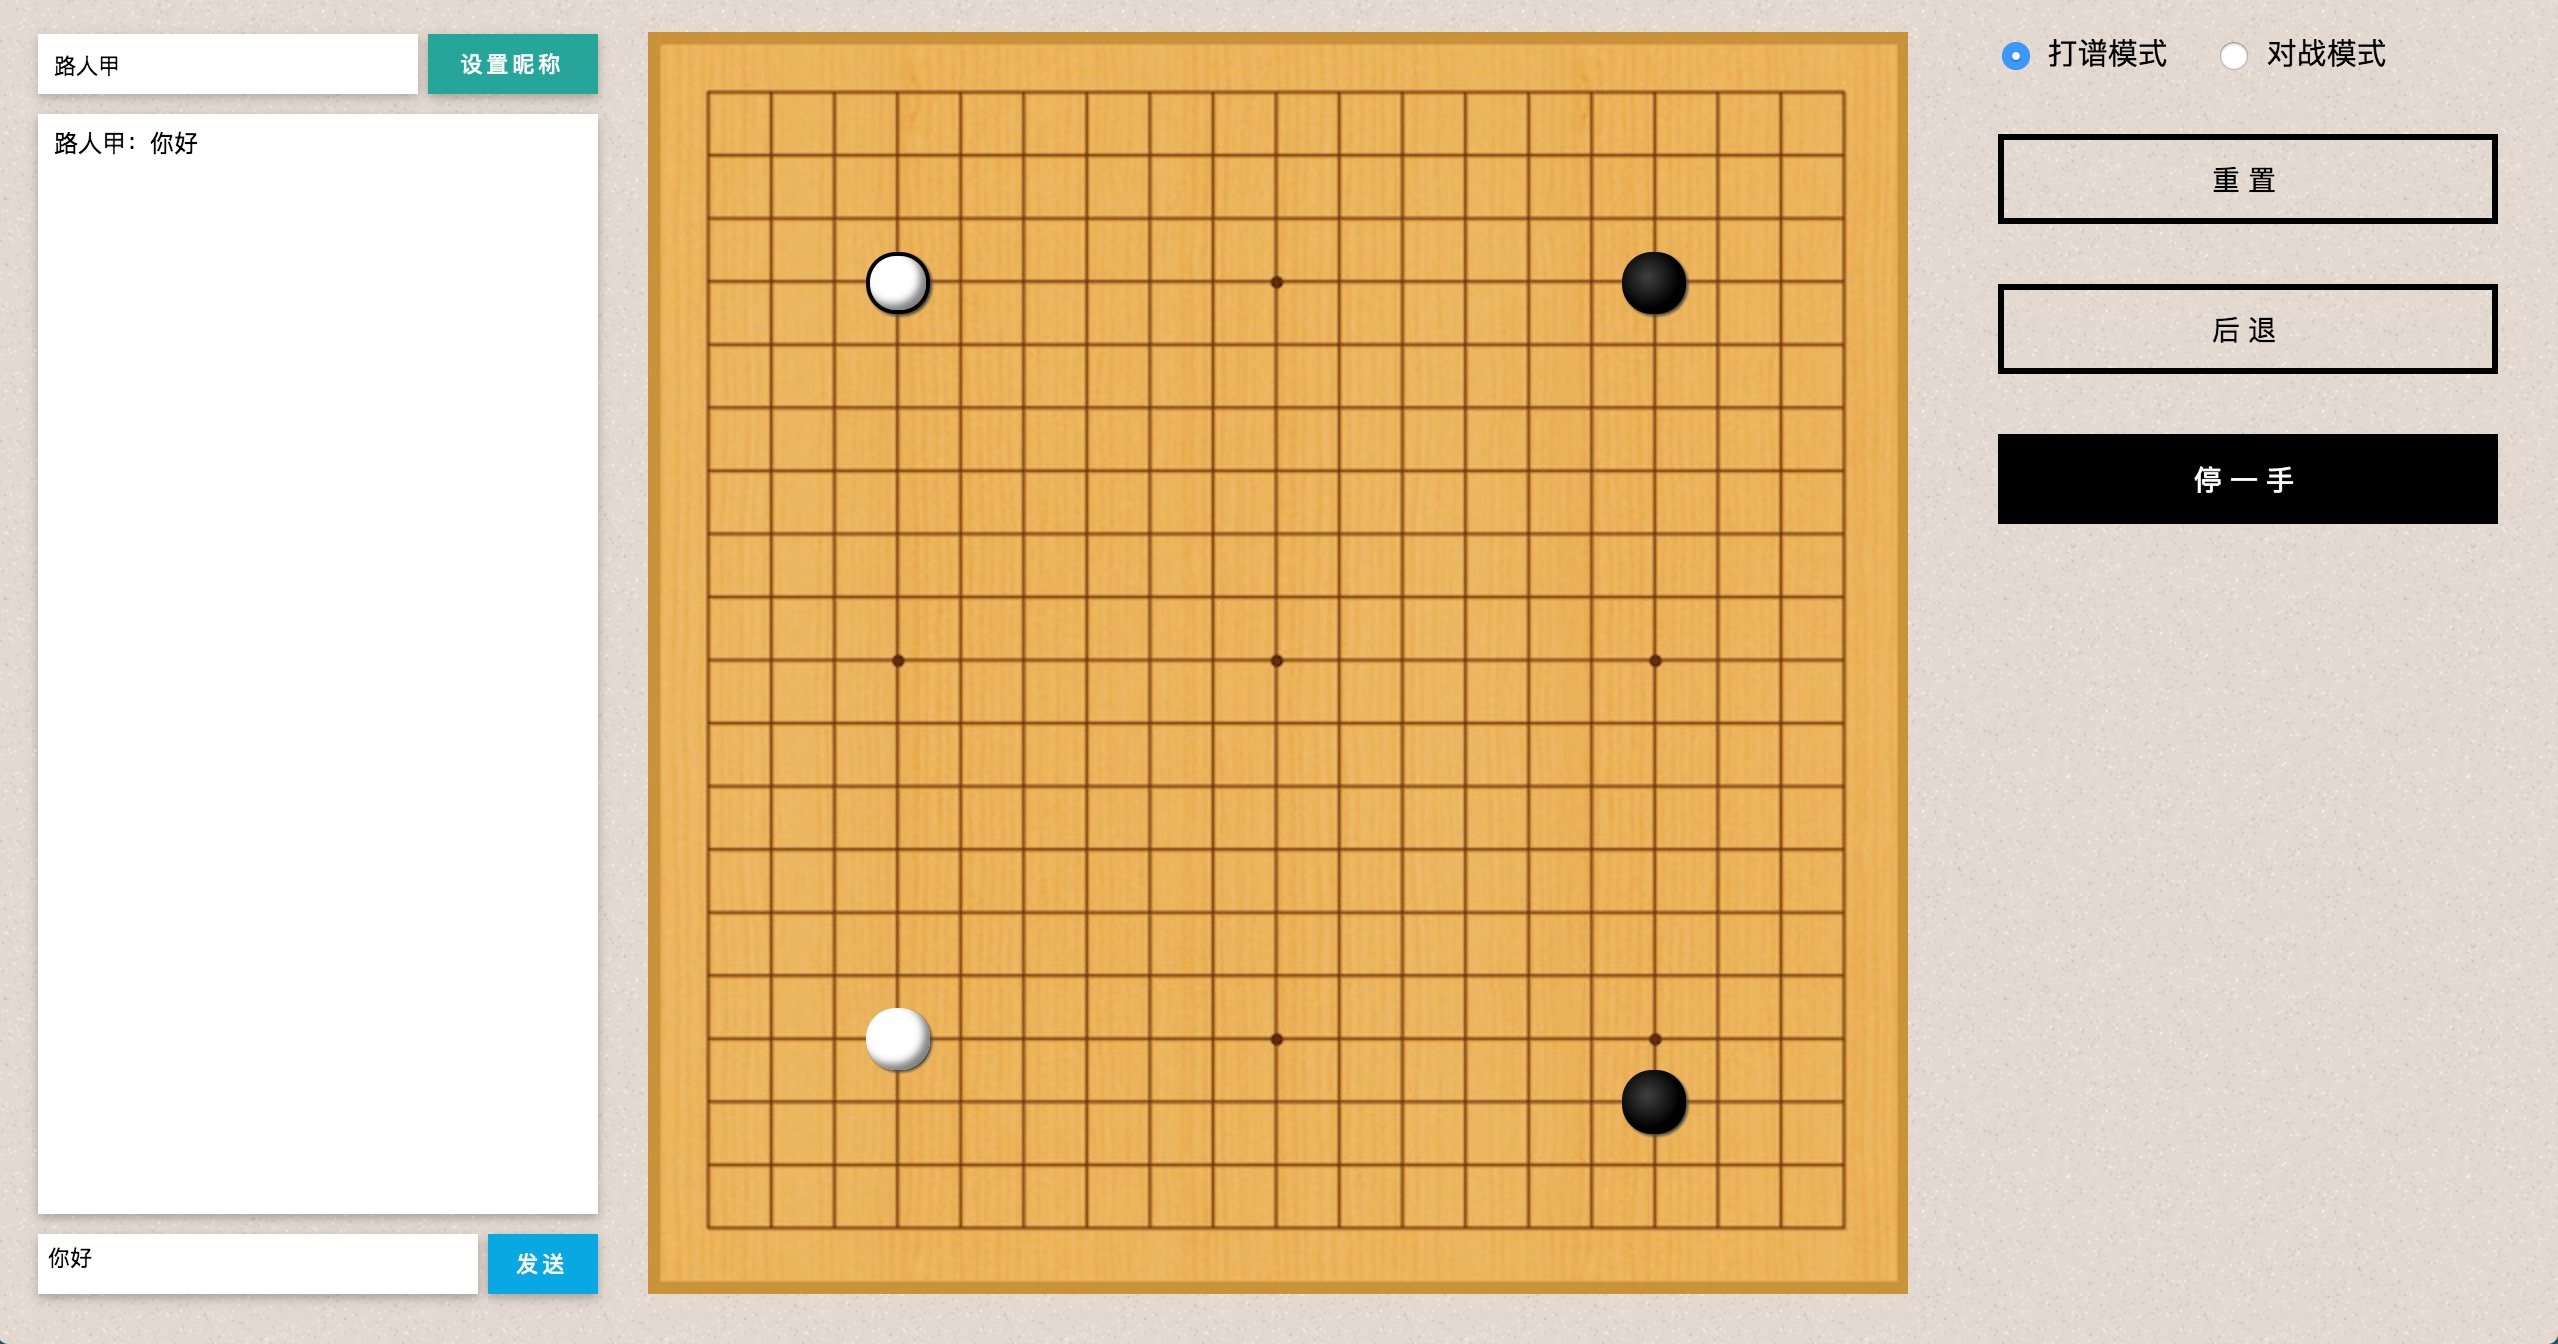
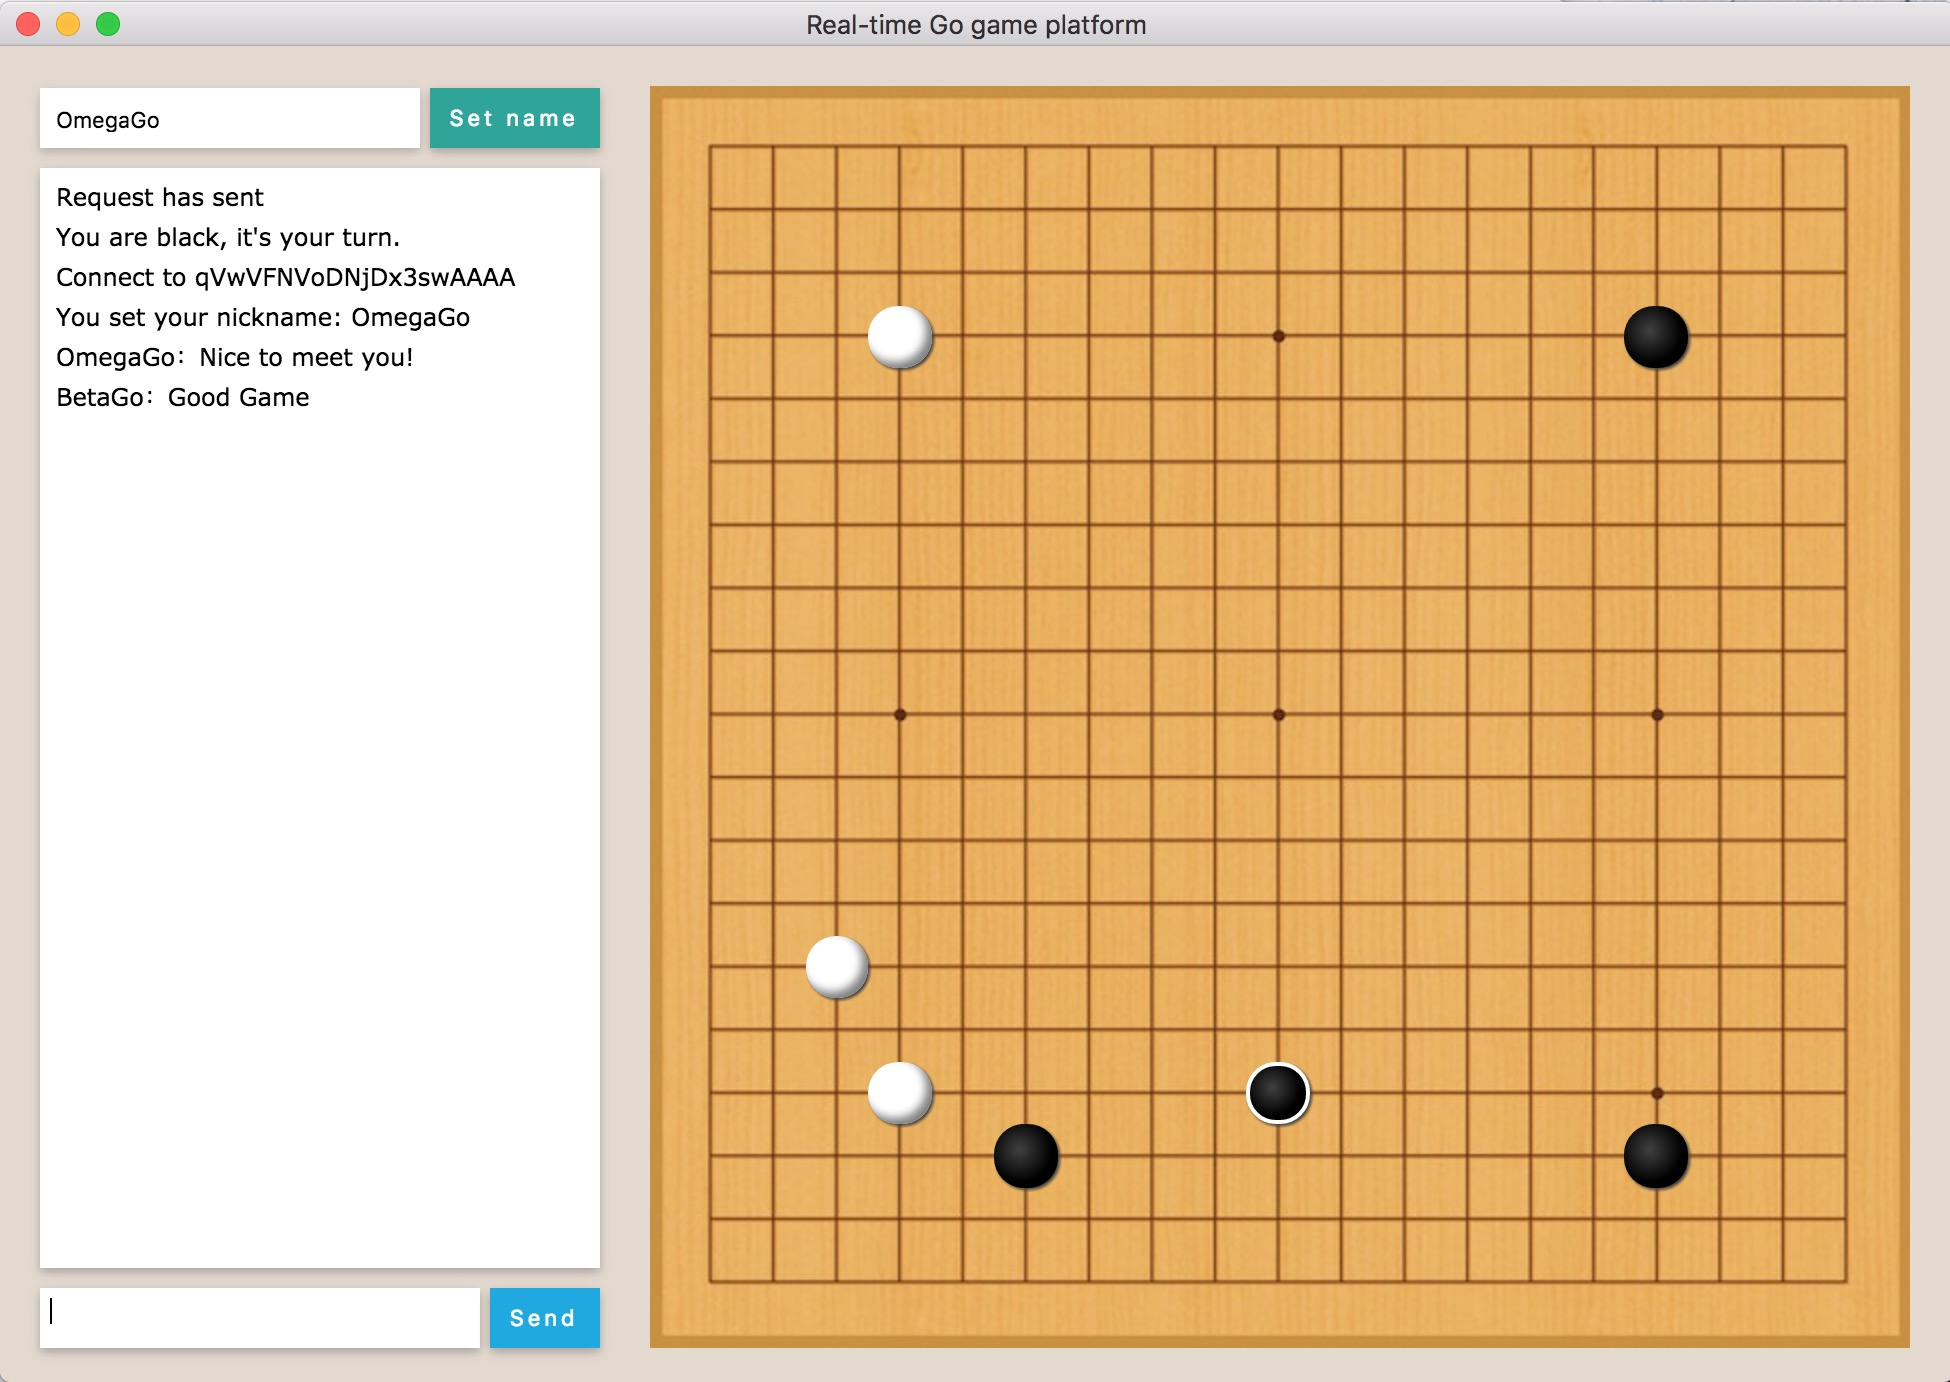
English

diff --git a/public/javascript.js b/public/javascript.js
@@ -130,7 +130,7 @@ window.onload = function(){
 		});
 		socket.on('chat', function(data){
             if (!data.name) {
-                data.name = "匿名";
+                data.name = "anonym";
             }
 			addInfo(data.name + "：" + data.info);
 		});
@@ -161,10 +161,10 @@ window.onload = function(){
                 socket.on('connectPlayer', function(data){
                     isConnect = true;
                     if(data.color != "black"){
-                        addInfo("您是黑棋，请落子");
+                        addInfo("You are black, it's your turn.");
                         action = true;
                     }else{
-                        addInfo("对方黑棋，轮到对方落子");
+                        addInfo("Your opponent is black, please wait.");
                     }
                     callback && callback(data);
                 });
@@ -481,7 +481,7 @@ window.onload = function(){
             }
         }
         currentFlag = 1;
-        addInfo("请求已发出，请等待");
+        addInfo("Request has sent");
         var name = document.getElementById("playerName");
         network.request(name.innerHTML);
     });
@@ -523,7 +523,7 @@ window.onload = function(){
     playerRename.addEventListener("click", function () {
        var name = document.getElementById("playerName");
         network.rename(name.value);
-        addInfo("您已更名为: "+name.value);
+        addInfo("You set your nickname: "+name.value);
     });
 
 	//联机对战事件监听
@@ -532,7 +532,7 @@ window.onload = function(){
 	});
 	network.onCreate();
 	network.onConnect(function(data){
-		addInfo("已经连接上对手" + data.name);
+		addInfo("Connect to " + data.name);
 	});
 
     // 发布信息

diff --git a/index.html b/index.html
@@ -2,20 +2,20 @@
 <html>
 <head>
     <meta charset="utf8">
-    <title>围棋对弈平台</title>
+    <title>Real-time Go game platform</title>
     <link href="public/style.css" rel="stylesheet" type="text/css" />
     <script src="public/javascript.js" type="text/javascript"></script>
 </head>
 <body>
 <div class="control">
     <div>
-        <input id="playerName" value="路人甲" maxlength="13">
-        <button id="playerRename">设置昵称</button>
+        <input id="playerName" value="anonym" maxlength="13">
+        <button id="playerRename">Set name</button>
     </div>
     <div id="log"></div>
     <div>
         <textarea id="chatInput"></textarea>
-        <button id="chatBtn">发送</button>
+        <button id="chatBtn">Send</button>
     </div>
 </div>
 
@@ -26,7 +26,7 @@
 <div id="function">
     <label for="method1"><input type="radio" value="1" id="method1" name="method" checked="true"/>打谱模式</label>
     <label for="method2"><input type="radio" value="2" id="method2" name="method"/>对战模式</label>
-    <button id="requestEnemy">请求在线对战队友</button>
+    <button id="requestEnemy">Request connection</button>
     <button id="reset">重置</button>
     <button id="undo">后退</button>
     <button id="pass">停一手</button>

diff --git a/main.js b/main.js
@@ -20,7 +20,8 @@ app.on('window-all-closed', function() {
 
 app.on('ready', function() {
     // 创建浏览器窗口。
-    mainWindow = new BrowserWindow({fullscreen:true});
+    //mainWindow = new BrowserWindow({fullscreen:true});
+    mainWindow = new BrowserWindow();
 
     mainWindow.loadURL(`file://${__dirname}/index.html`);
     // mainWindow.openDevTools();

diff --git a/control.js b/control.js
@@ -1,6 +1,11 @@
+var express = require('express');
+var app = express();
 var socket = require('socket.io');
-
+var passport = require('passport');
 var io = socket.listen(3000);
+
+
+
 
 var players = {};
 

diff --git a/readme.md b/readme.md
@@ -7,8 +7,8 @@
 #### Run:
 
 ```
-npm install
-npm start
+$npm install
+$electron main.js
 ```
 
 
@@ -21,4 +21,4 @@ https://github.com/IreneZhou/Weiqi-Platform/tree/master
 
 #### Technologies:
 
-`Electron`  `Node.js`  `Socket.io`  `HTML`  `CSS`  `JavaScript`
+`Electron`  `Node.js`  `Socket.io`  `HTML`  `CSS`  `JavaScript` `Express`
